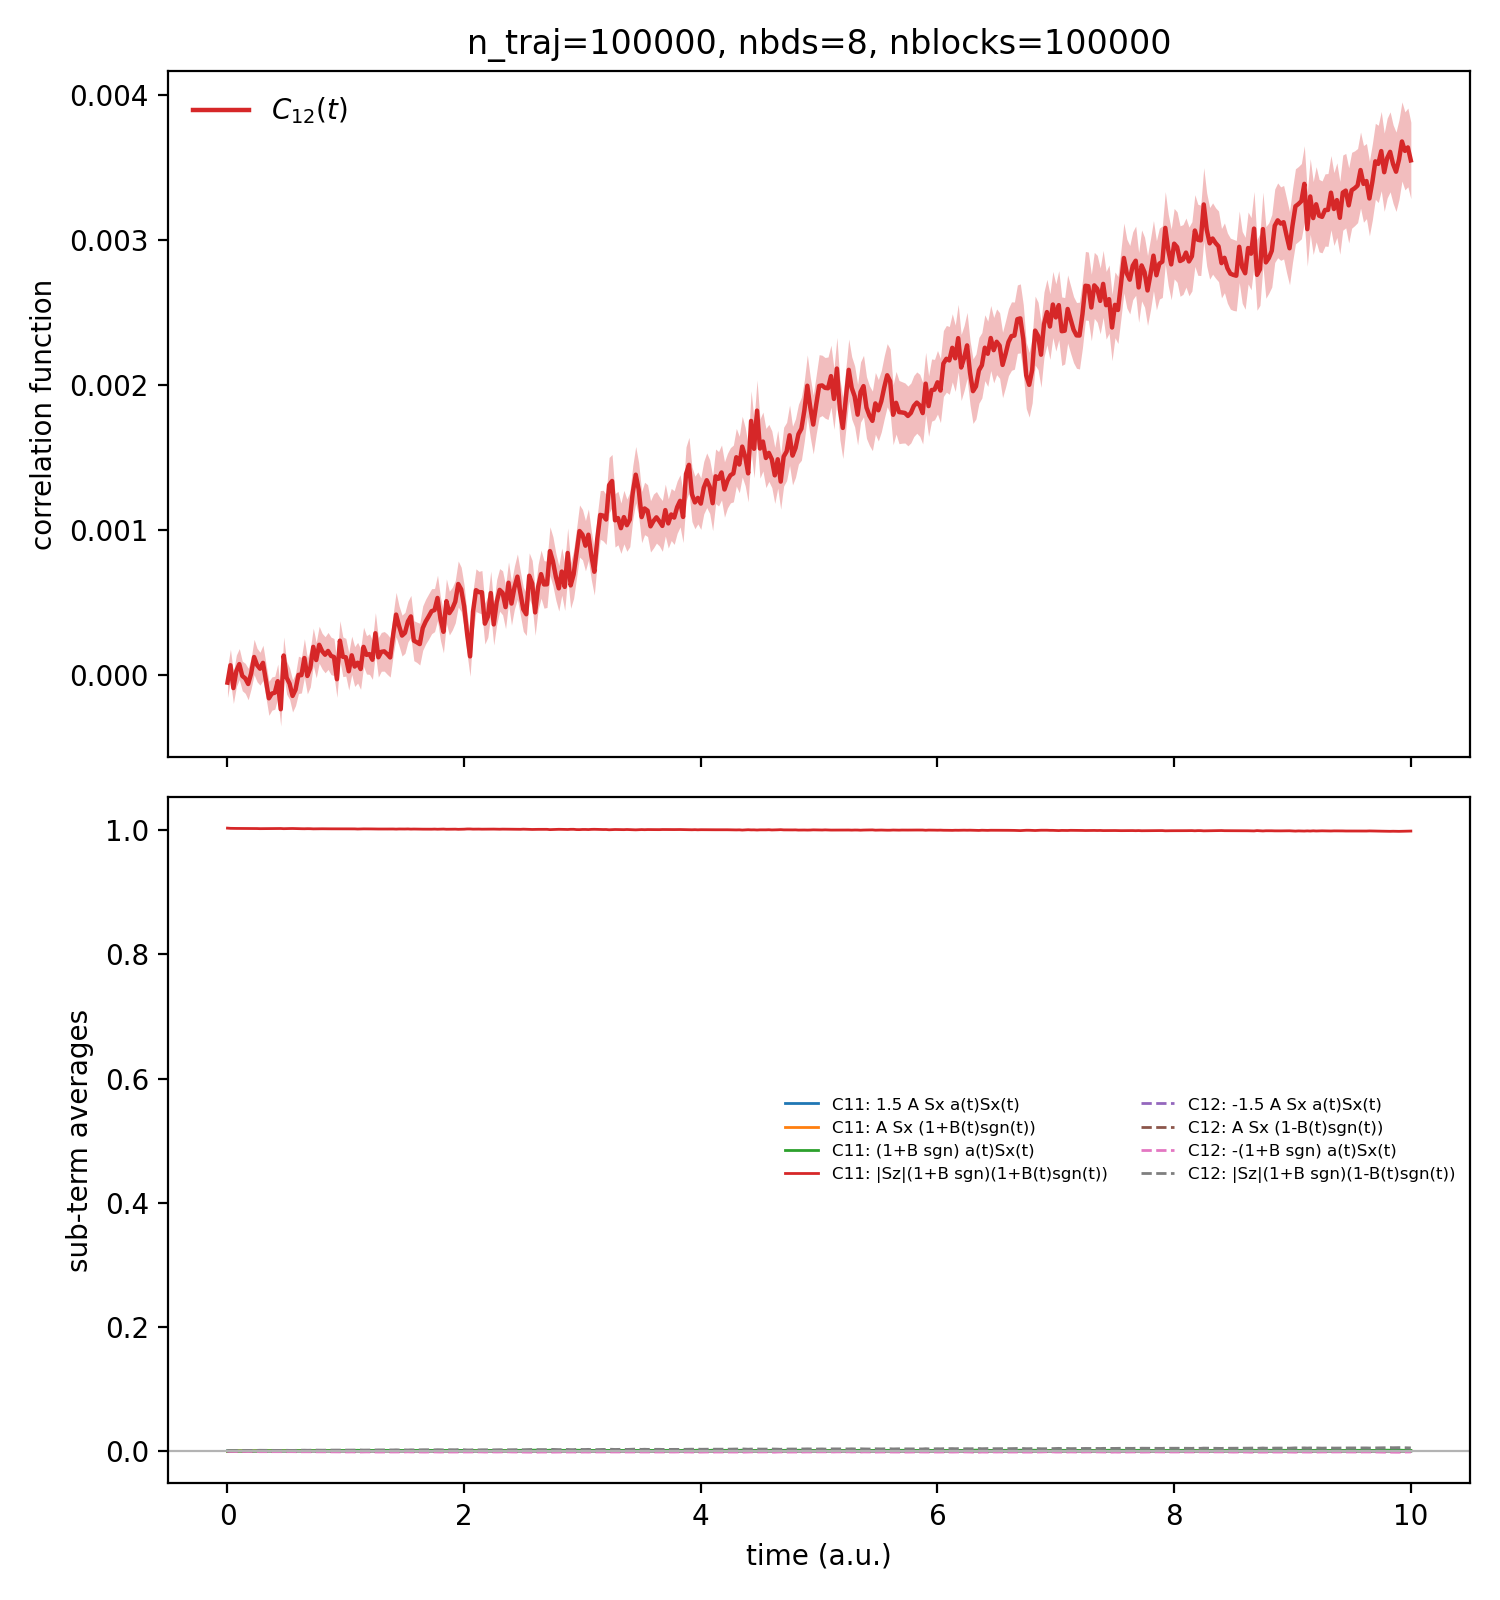
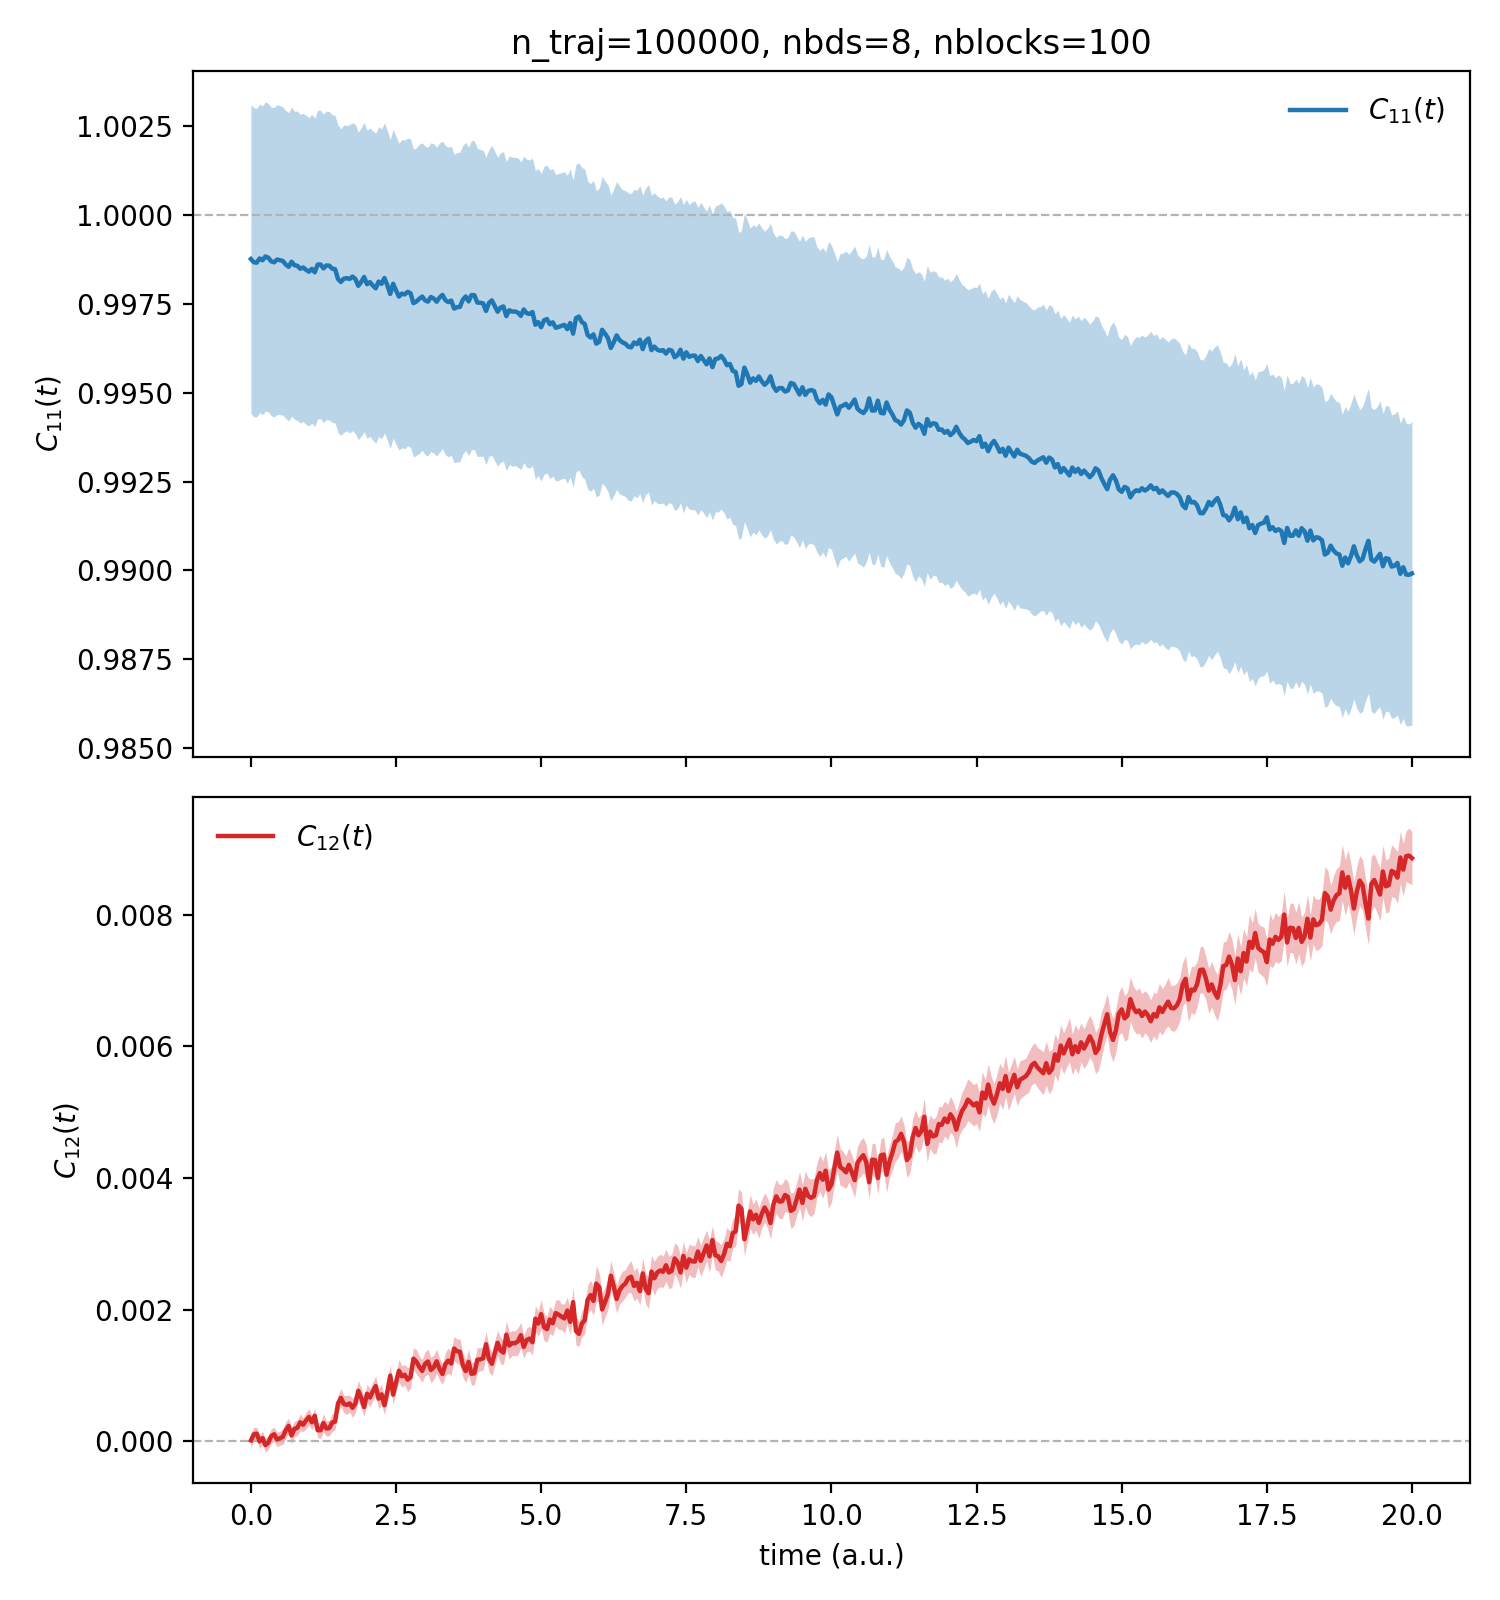
more analysis scripts and more testing

diff --git a/MASH-RPMD_System-Bath/low_friction/analyze_k12.py b/MASH-RPMD_System-Bath/low_friction/analyze_k12.py
@@ -1,0 +1,134 @@
+"""
+analyze_k12.py -- plot C_12(t) and the transformed rate integrand
+    K_12(t) = -P2eq * ln| 1 - C_12(t)/P2eq |
+from pop_c12.dat, with error bars propagated through the logarithm, and a least-squares line fit of
+K_12(t) over a chosen time window (default t=10..20).
+
+  top panel    : C_12(t) with its +/- SE band (from pop_c12.dat column 2)
+  bottom panel : K_12(t) with its propagated +/- SE band, plus the m*t+b least-squares fit over
+                 [fitmin, fitmax]; the slope m (rate), intercept b, and Pearson r are reported.
+
+P2eq = 1 / (1 + exp(-beta*epsil)), with beta (FULL inverse temperature, not beta/nbds) and epsil read
+from the run config.py by default (override with --beta / --epsil / --config).
+
+Error propagation: with u(t) = 1 - C_12(t)/P2eq,
+    K_12 = -P2eq * ln|u|   ->   dK/dC_12 = 1/u   ->   sigma_K = sigma_C12 / |u|.
+Where |u| = 0 (division by zero), that point's error is set to 0.
+
+Usage (from the run dir):
+    python analyze_k12.py                       # fit t=10..20, beta/epsil from config.py
+    python analyze_k12.py --fitmin 10 --fitmax 20 --tmax 50
+"""
+
+import os
+import argparse
+
+import numpy as np
+import matplotlib
+matplotlib.use('Agg')
+import matplotlib.pyplot as plt
+from scipy.stats import linregress
+
+from workflow import load_config           # reads config.py -> CONFIG dict
+
+
+def _parse_header_epsil(path):
+    """Fallback: pull the 'epsil=<value>' token from the .dat comment header, if present."""
+    try:
+        with open(path) as f:
+            for line in f:
+                if not line.startswith('#'):
+                    break
+                for tok in line.replace(',', ' ').split():
+                    if tok.startswith('epsil='):
+                        return float(tok.split('=', 1)[1])
+    except Exception:
+        pass
+    return None
+
+
+def _main():
+    ap = argparse.ArgumentParser(description='Plot C_12(t), K_12(t)=-P2eq*ln|1-C12/P2eq|, and a line fit over a window.')
+    ap.add_argument('--file',   default='pop_c12.dat', help='input .dat: time, C12, C12_SE')
+    ap.add_argument('--tmax',   type=float, default=None, help='truncate output/plot to t <= tmax')
+    ap.add_argument('--fitmin', type=float, default=10.0, help='fit window start (default 10)')
+    ap.add_argument('--fitmax', type=float, default=20.0, help='fit window end (default 20)')
+    ap.add_argument('--config', default='config.py', help='run config providing beta/epsil (default config.py)')
+    ap.add_argument('--beta',   type=float, default=None, help='override full inverse temperature (default: config.py)')
+    ap.add_argument('--epsil',  type=float, default=None, help='override driving force epsil (default: config.py)')
+    ap.add_argument('--out',    default=None, help='output png (default: <file stem>_k12.png)')
+    a = ap.parse_args()
+
+    data = np.loadtxt(a.file)
+    time = data[:, 0]; C12 = data[:, 1]; C12_SE = data[:, 2]
+
+    # beta/epsil from config.py by default; CLI overrides; header/1.0 fallbacks
+    cfg = None
+    if a.beta is None or a.epsil is None:
+        try:
+            cfg = load_config(a.config)
+        except Exception as ex:
+            print(f"[k12] WARNING: could not load {a.config} ({ex}); using overrides/fallbacks")
+
+    def _resolve(name, cli_val, fallback):
+        if cli_val is not None:
+            return float(cli_val)
+        if cfg is not None and name in cfg:
+            return float(cfg[name])
+        return fallback
+
+    beta  = _resolve('beta',  a.beta,  1.0)
+    epsil = _resolve('epsil', a.epsil, _parse_header_epsil(a.file) or 0.0)
+    P2eq  = 1.0 / (1.0 + np.exp(-beta * epsil))
+
+    # K_12(t) and its propagated error; guard the 1/|u| division
+    u = 1.0 - C12 / P2eq
+    with np.errstate(divide='ignore', invalid='ignore'):
+        K12    = -P2eq * np.log(np.abs(u))
+        K12_SE = C12_SE / np.abs(u)
+    K12_SE = np.where(np.isfinite(K12_SE), K12_SE, 0.0)   # |u|=0 -> divide by zero -> error 0
+
+    # ---- least-squares line fit m*t + b of K_12 over [fitmin, fitmax] (finite points only) ----
+    fmask = (time >= a.fitmin) & (time <= a.fitmax) & np.isfinite(K12)
+    if int(fmask.sum()) >= 2:
+        fit = linregress(time[fmask], K12[fmask])
+        m, b, r = float(fit.slope), float(fit.intercept), float(fit.rvalue)
+    else:
+        m = b = r = float('nan')
+        print(f"[k12] WARNING: only {int(fmask.sum())} finite points in [{a.fitmin},{a.fitmax}]; no fit")
+
+    if a.tmax is not None:
+        msk = time <= a.tmax
+        time, C12, C12_SE, K12, K12_SE = time[msk], C12[msk], C12_SE[msk], K12[msk], K12_SE[msk]
+
+    out = a.out or (os.path.splitext(a.file)[0] + '_k12.png')
+    fig, (ax1, ax2) = plt.subplots(2, 1, figsize=(7.5, 8), sharex=True)
+
+    ax1.axhline(0.0, color='0.7', lw=0.8, ls='--')
+    ax1.plot(time, C12, color='C3', lw=1.6, label=r'$C_{12}(t)$')
+    ax1.fill_between(time, C12 - C12_SE, C12 + C12_SE, color='C3', alpha=0.3, lw=0)
+    ax1.set_ylabel(r'$C_{12}(t)$')
+    ax1.legend(loc='best', frameon=False)
+    ax1.set_title(f"{os.path.basename(a.file)}   P2eq={P2eq:.4f}  (beta={beta}, epsil={epsil})")
+
+    ax2.axhline(0.0, color='0.7', lw=0.8, ls='--')
+    ax2.plot(time, K12, color='C0', lw=1.6, label=r'$K_{12}(t)=-P_2^{\mathrm{eq}}\ln|1-C_{12}/P_2^{\mathrm{eq}}|$')
+    ax2.fill_between(time, K12 - K12_SE, K12 + K12_SE, color='C0', alpha=0.3, lw=0)
+    if np.isfinite(m):
+        tf = np.array([a.fitmin, a.fitmax])
+        ax2.plot(tf, m * tf + b, color='k', lw=2.0, ls='--',
+                 label=fr'fit [{a.fitmin:g},{a.fitmax:g}]:  m={m:.4g}, b={b:.4g}, r={r:.4f}')
+        ax2.axvspan(a.fitmin, a.fitmax, color='0.9', zorder=0)   # shade the fit window
+    ax2.set_xlabel('time (a.u.)'); ax2.set_ylabel(r'$K_{12}(t)$')
+    ax2.legend(loc='best', frameon=False)
+
+    fig.tight_layout(); fig.savefig(out, dpi=200); plt.close(fig)
+
+    src = 'config.py' if (cfg is not None) else 'override/fallback'
+    print(f"[k12] beta={beta}, epsil={epsil} (from {src}), P2eq={P2eq:.6f}")
+    print(f"[k12] line fit of K12 over t=[{a.fitmin},{a.fitmax}]:  m={m:.6g}  b={b:.6g}  r={r:.6f}  (r^2={r*r:.6f})")
+    print(f"[k12] wrote {out}  ({time.size} points)")
+
+
+if __name__ == '__main__':
+    _main()

diff --git a/MASH-RPMD_System-Bath/low_friction/analyze_pop.py b/MASH-RPMD_System-Bath/low_friction/analyze_pop.py
@@ -131,18 +131,16 @@ def compute_pop(path, nblocks=None, tmax=None):
                 params=dict(kvec=kvec, epsil=epsil, lbd=lbd, delta=delta))
 
 
-def _write_dat(out, r):
-    cols = [r['time'], r['C11'], r['C11_SE'], r['C12'], r['C12_SE']] + r['U_means'] + r['V_means']
-    data = np.column_stack(cols)
+def _write_dat(out, r, which):
+    """Write the averaged correlation function `which` ('C11' or 'C12') as [time, value, SE]."""
+    data = np.column_stack([r['time'], r[which], r[which + '_SE']])
     p = r['params']
     header = (
-        'C_11(t), C_12(t): single whole-bracket ensemble averages (see module docstring; no prefactor)\n'
-        'C11_SE/C12_SE = blockSEM of the whole bracket (one combined block SE, not per-term quadrature)\n'
+        f"{which}(t): single whole-bracket ensemble average (see analyze_pop.py docstring; no prefactor)\n"
+        f"{which}_SE = blockSEM of the whole bracket (one combined block SE, not per-term quadrature)\n"
         f"n_traj={r['n_traj']} nbds={r['nbds']} nblocks={r['nblocks']} "
         f"kvec={p['kvec']} epsil={p['epsil']} lbd={p['lbd']} delta={p['delta']:.6e}\n"
-        'A=mean_b a(R_b), B=mean_b b(R_b) [avg over beads]; a=-delta/norm, b=kappa/norm\n'
-        'C11 == U1+U2+U3+U4 ; C12 == V1+V2+V3+V4 (diagnostic sub-term means below)\n'
-        'columns: time C11 C11_SE C12 C12_SE  U1 U2 U3 U4  V1 V2 V3 V4'
+        f"columns: time  {which}  {which}_SE"
     )
     np.savetxt(out, data, fmt='%20.10e', header=header)
 
@@ -151,22 +149,20 @@ def _plot(out, r):
     t = r['time']
     fig, (ax1, ax2) = plt.subplots(2, 1, figsize=(7.5, 8), sharex=True)
 
-    #ax1.axhline(0.0, color='0.7', lw=0.8)
-    #ax1.plot(t, r['C11'], color='C0', lw=1.6, label=r'$C_{11}(t)$')
-    #ax1.fill_between(t, r['C11']-r['C11_SE'], r['C11']+r['C11_SE'], color='C0', alpha=0.3, lw=0)
-    ax1.plot(t, r['C12'], color='C3', lw=1.6, label=r'$C_{12}(t)$')
-    ax1.fill_between(t, r['C12']-r['C12_SE'], r['C12']+r['C12_SE'], color='C3', alpha=0.3, lw=0)
-    ax1.set_ylabel('correlation function')
+    # top panel: full C11 with a reference line at 1
+    ax1.axhline(1.0, color='0.7', lw=0.8, ls='--')
+    ax1.plot(t, r['C11'], color='C0', lw=1.6, label=r'$C_{11}(t)$')
+    ax1.fill_between(t, r['C11']-r['C11_SE'], r['C11']+r['C11_SE'], color='C0', alpha=0.3, lw=0)
+    ax1.set_ylabel(r'$C_{11}(t)$')
     ax1.legend(loc='best', frameon=False)
     ax1.set_title(f"n_traj={r['n_traj']}, nbds={r['nbds']}, nblocks={r['nblocks']}")
 
-    for u, lab in zip(r['U_means'], U_LABELS):
-        ax2.plot(t, u, lw=1.0, ls='-',  label='C11: ' + lab)
-    for v, lab in zip(r['V_means'], V_LABELS):
-        ax2.plot(t, v, lw=1.0, ls='--', label='C12: ' + lab)
-    ax2.axhline(0.0, color='0.7', lw=0.8)
-    ax2.set_xlabel('time (a.u.)'); ax2.set_ylabel('sub-term averages')
-    ax2.legend(loc='best', frameon=False, ncol=2, fontsize=6)
+    # bottom panel: full C12 with a reference line at 0
+    ax2.axhline(0.0, color='0.7', lw=0.8, ls='--')
+    ax2.plot(t, r['C12'], color='C3', lw=1.6, label=r'$C_{12}(t)$')
+    ax2.fill_between(t, r['C12']-r['C12_SE'], r['C12']+r['C12_SE'], color='C3', alpha=0.3, lw=0)
+    ax2.set_xlabel('time (a.u.)'); ax2.set_ylabel(r'$C_{12}(t)$')
+    ax2.legend(loc='best', frameon=False)
 
     fig.tight_layout(); fig.savefig(out, dpi=200); plt.close(fig)
 
@@ -181,7 +177,8 @@ def _main():
     a = ap.parse_args()
 
     r = compute_pop(a.file, nblocks=a.nblocks, tmax=a.tmax)
-    _write_dat(a.out + '.dat', r)
+    _write_dat(a.out + '_c11.dat', r, 'C11')
+    _write_dat(a.out + '_c12.dat', r, 'C12')
     _plot(a.out + '.png', r)
 
     p = r['params']
@@ -189,7 +186,7 @@ def _main():
     print(f"[pop] params: kvec={p['kvec']} epsil={p['epsil']} lbd={p['lbd']} delta={p['delta']:.6e}")
     print(f"[pop] C11(0)={r['C11'][0]:.6e} +/- {r['C11_SE'][0]:.3e}")
     print(f"[pop] C12(0)={r['C12'][0]:.6e} +/- {r['C12_SE'][0]:.3e}")
-    print(f"[pop] wrote {a.out}.dat and {a.out}.png  ({r['time'].size} time points)")
+    print(f"[pop] wrote {a.out}_c11.dat, {a.out}_c12.dat and {a.out}.png  ({r['time'].size} time points)")
 
 
 if __name__ == '__main__':
